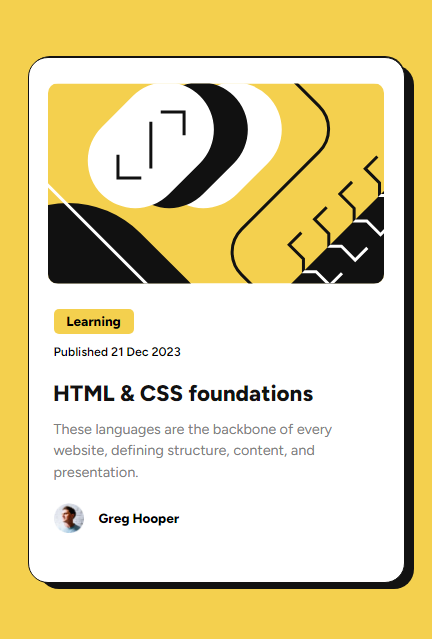
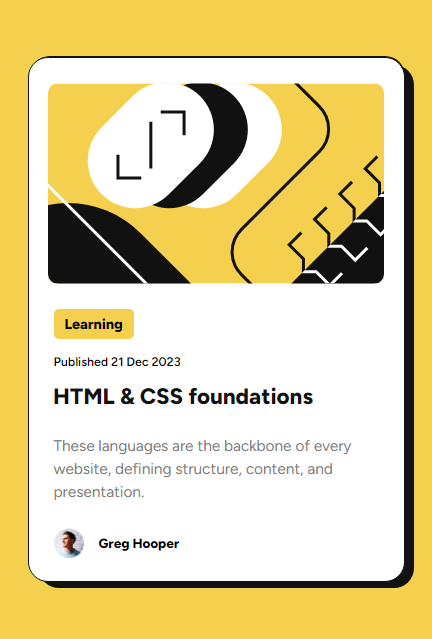
Add files via upload

Changed region(s): [[0.0602, 0.4757, 0.9329, 0.9218]]

diff --git a/index.css b/index.css
@@ -31,7 +31,7 @@ main {
 }
 
 section {
-    height: 524px;
+    height: 523px;
     width: 375px;
     background-color: hsl(0, 0%, 100%);
     border: 1px solid hsl(0, 0%, 7%);
@@ -44,7 +44,7 @@ section {
 }
 
 .back {
-    height: 524px;
+    height: 523px;
     width: 375px;
     background-color: hsl(0, 0%, 7%);
     display: flex;
@@ -71,15 +71,15 @@ section {
 
 .learning {
     width: 80px;
-    height: 25px;
+    height: 30px;
     font-family: customFont2;
-    font-size: calc(13px + 0.090625vw);
+    font-size: calc(14px + 0.090625vw);
     background-color: hsl(47, 88%, 63%);
     border-radius: 5px;
     display: flex;
     justify-content: center;
     align-items: center;
-    margin-bottom: 10px;
+    margin-bottom: 15px;
 }
 
 .tiny-img {
@@ -92,18 +92,19 @@ section {
     display: flex;
     align-items: center;
     font-family: customFont2;
-    margin-top: 20px;
+    margin-top: 25px;
     font-size: calc(13px + 0.090625vw);
 }
 
 p {
     color: hsl(0, 0%, 50%);
-    font-size: calc(14px + 0.090625vw);
+    font-size: calc(15px + 0.090625vw);
     line-height: 1.5;
-    margin-top: 60px;
+    margin-top: 65px;
 }
 
 .publish {
+    margin-top: 10px;
     margin-bottom: 10px;
     font-size: calc(12px + 0.090625vw);
     font-family: customFont3;
@@ -116,7 +117,7 @@ p {
     font-family: customFont2;
     color: hsl(0, 0%, 7%);
     position: relative;
-    top: 300px;
+    top: 303px;
     z-index: 5;
 }
 

diff --git a/index.html b/index.html
@@ -15,7 +15,7 @@
         <img class="main-img" src="../blog-preview-card-main/assets/images/illustration-article.svg" alt="">
           <div class="article">
             <div class="learning">Learning</div>
-            <div class="publish">Published 21 Dec 2023</div>
+            <h6 class="publish">Published 21 Dec 2023</h6>
             <p>These languages are the backbone of every website, defining structure, content, and presentation.</p>
             <div class="buttom"> 
               <img class="tiny-img" src="../blog-preview-card-main/assets/images/image-avatar.webp" alt=""> 

diff --git a/README.md b/README.md
@@ -18,8 +18,8 @@ Users should be able to:
 
 ### Screenshot
 
-[![Desktop.png](https://i.postimg.cc/fRnNJ6mZ/Desktop.png)](https://postimg.cc/3dB6qftb)
-[![Mobile.png](https://i.postimg.cc/xdgDp87T/Mobile.png)](https://postimg.cc/DWWM8vnt)
+[![Desktop.png](https://i.postimg.cc/D0By7GWK/Desktop.png)](https://postimg.cc/tnnH5Ytr)
+[![Mobile.png](https://i.postimg.cc/4xr44s3n/Mobile.png)](https://postimg.cc/dhjc4MrK)
 
 ### Links
 
